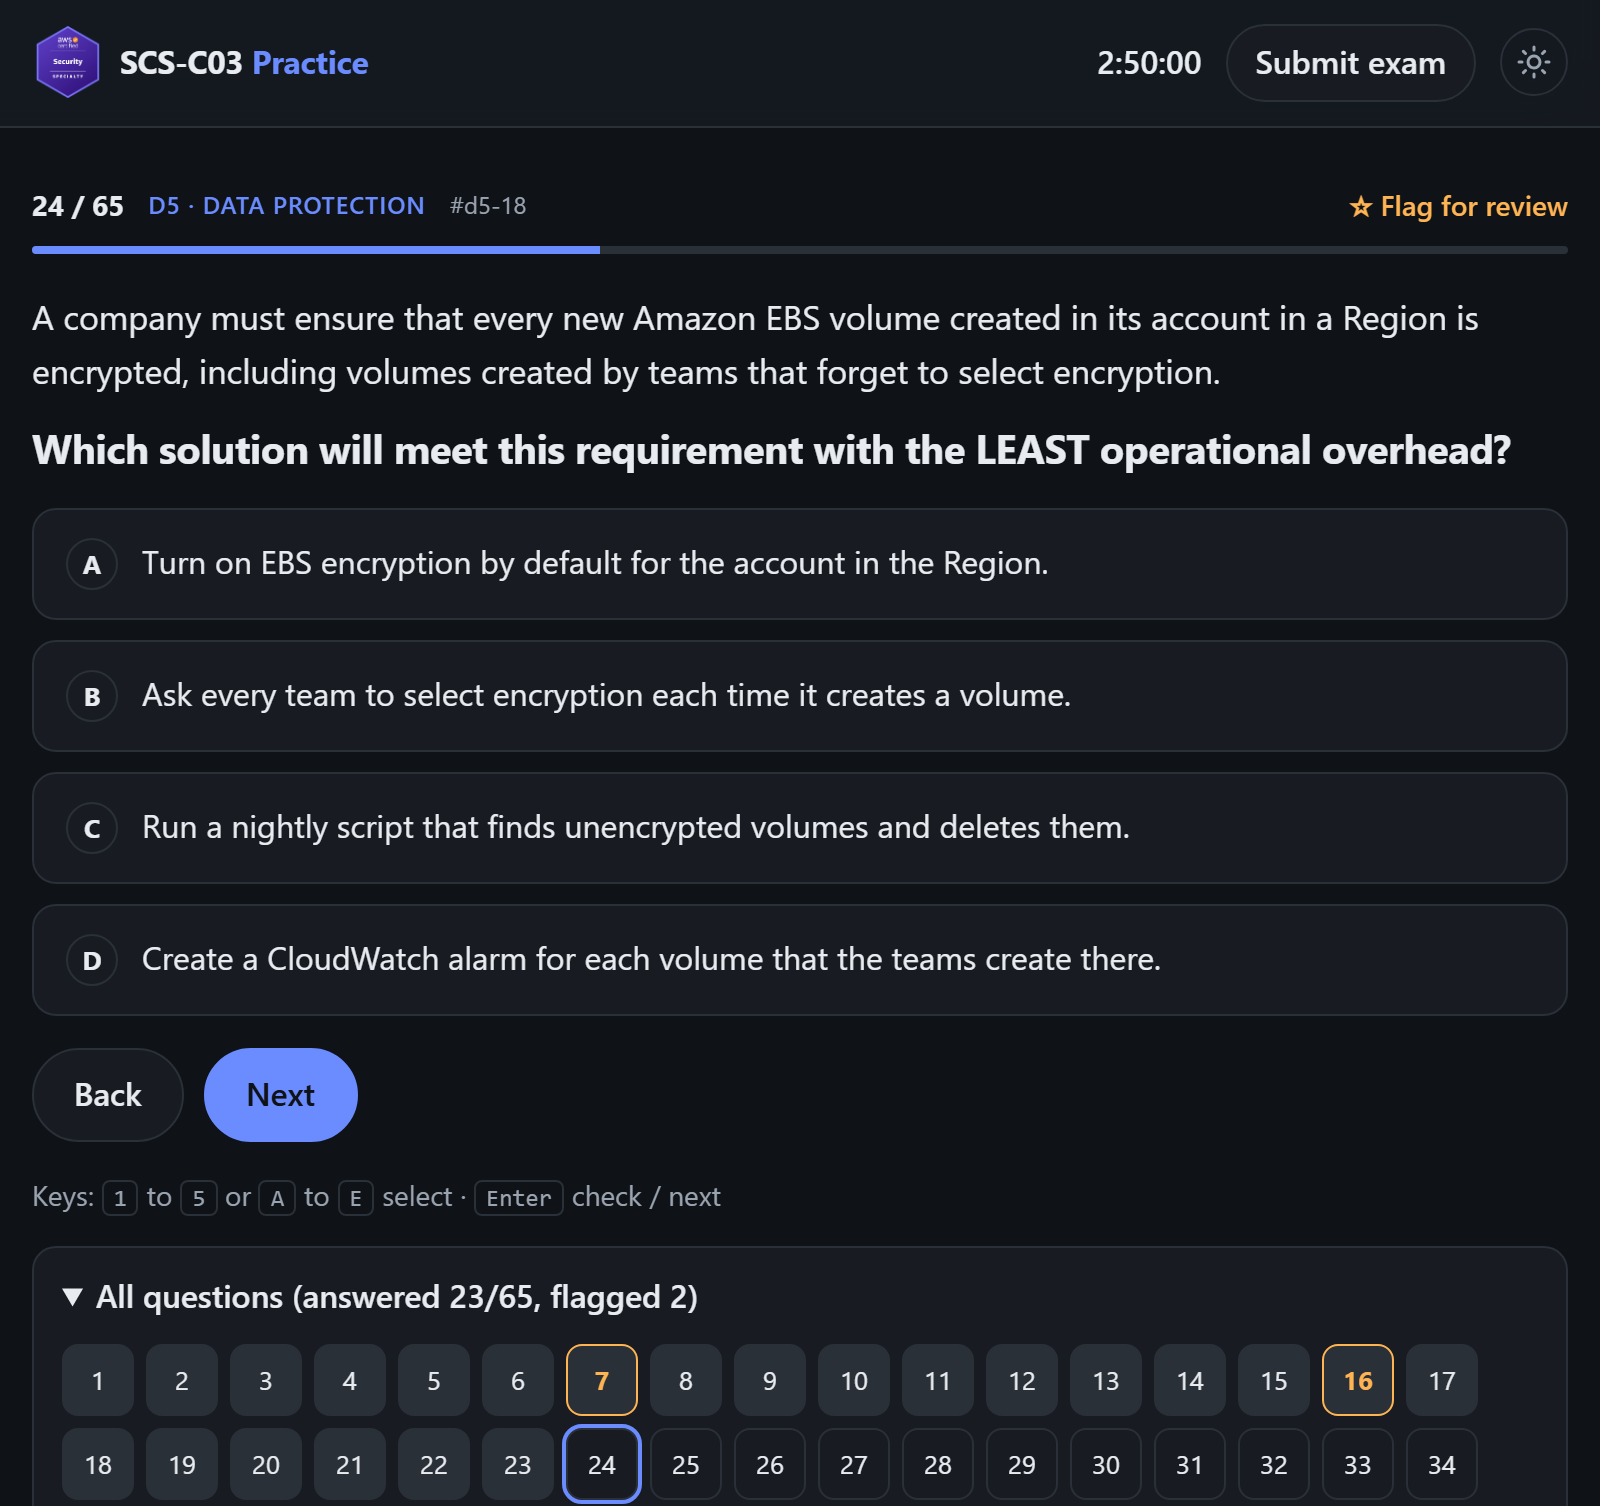
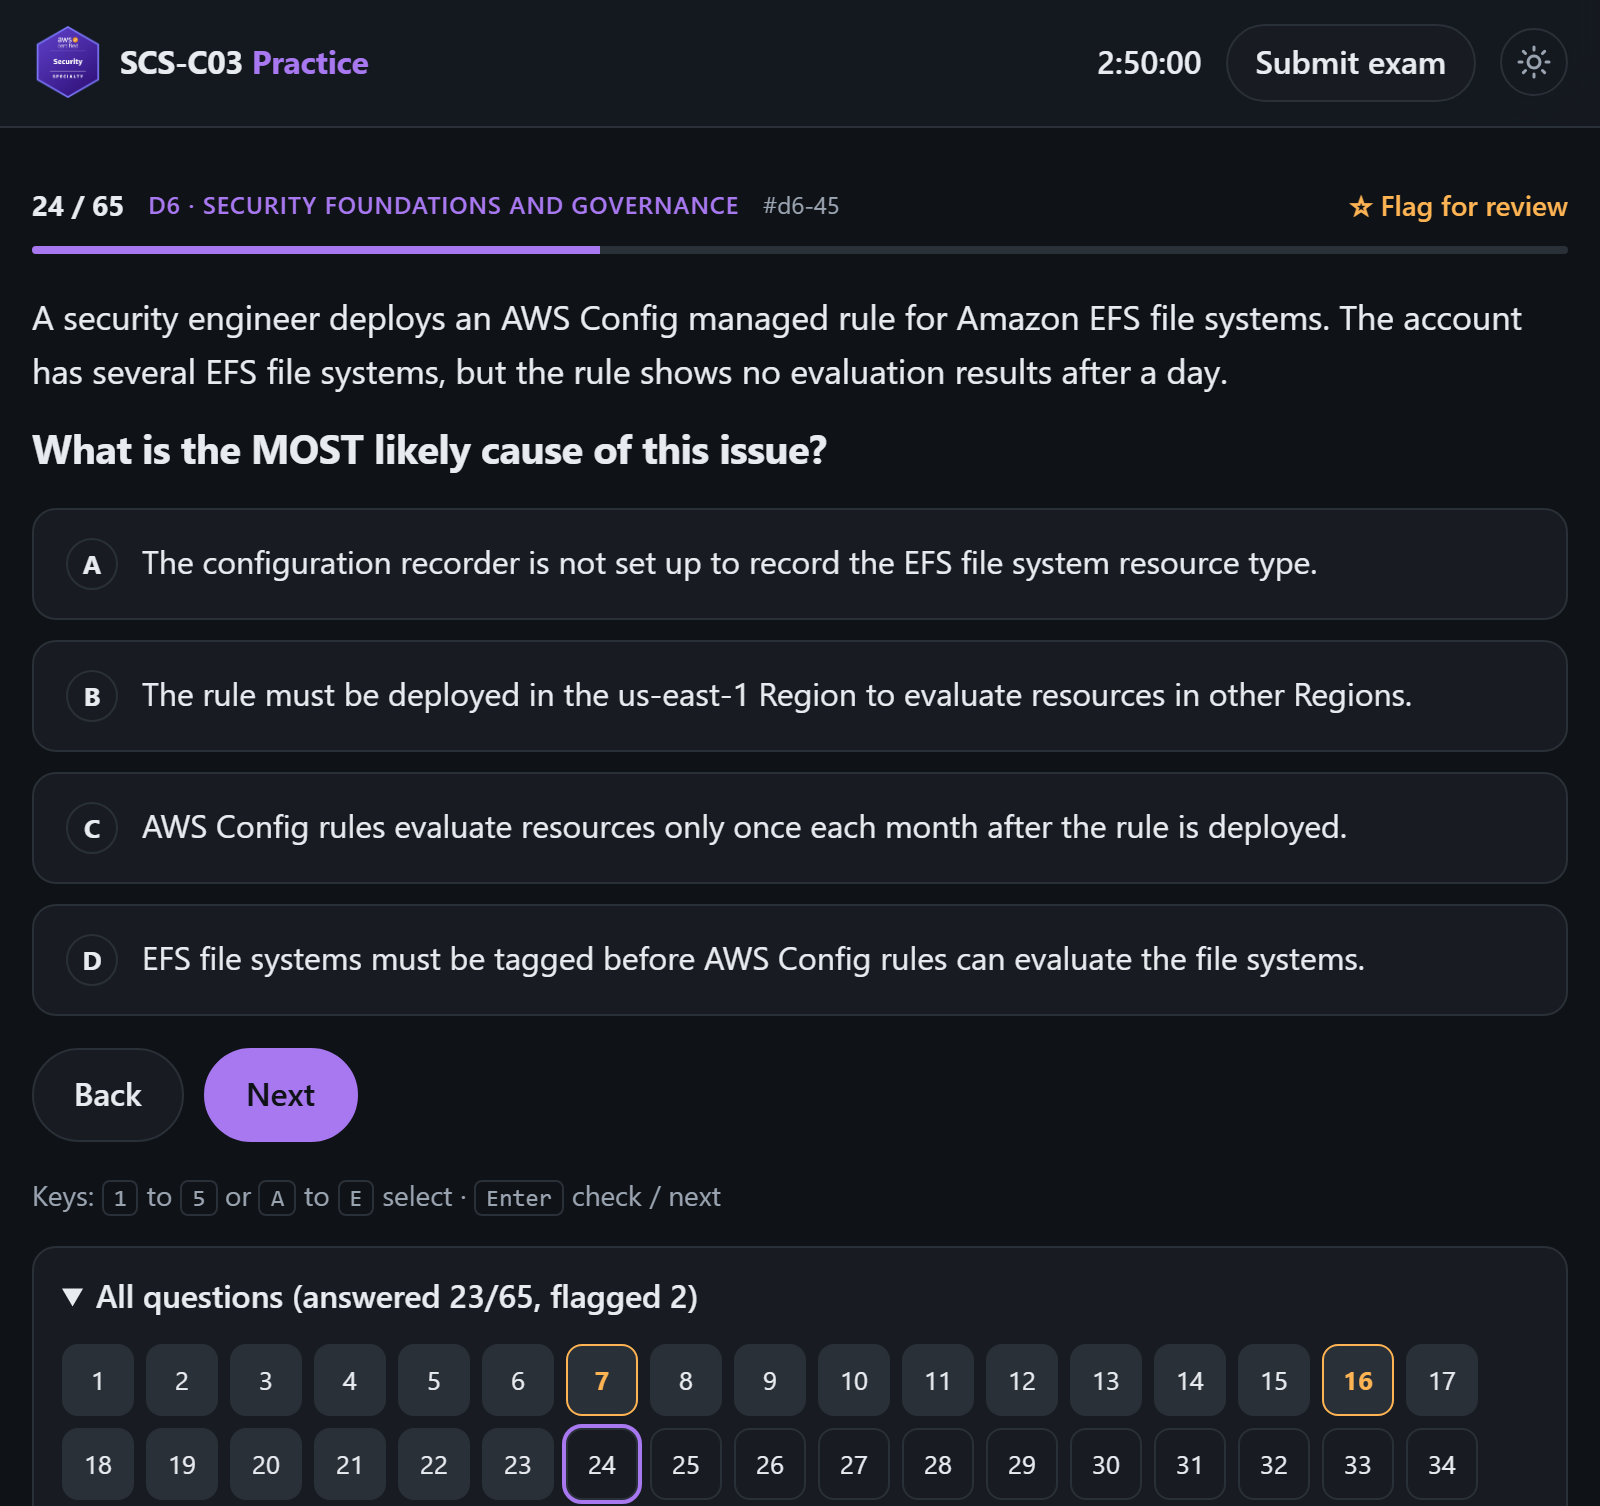
Match the theme colour to the badge

diff --git a/index.html b/index.html
@@ -15,6 +15,9 @@
 <link rel="icon" href="docs/logo.png">
 <script>{ let t; try { t = JSON.parse(localStorage.getItem('scs:theme')); } catch {} document.documentElement.dataset.theme = t || (matchMedia('(prefers-color-scheme: dark)').matches ? 'dark' : 'light'); }</script>
 <link rel="stylesheet" href="style.css">
+<!-- Specialty tier purple, matching the badge. style.css is shared by every practice site and defaults to Associate blue;
+     these are the same lightness and strength as that blue, with only the hue changed. The header always uses the dark value. -->
+<style>:root { --accent: #843cd6; } :root[data-theme="dark"], header { --accent: #a778ef; }</style>
 </head>
 <body>
 <header>
